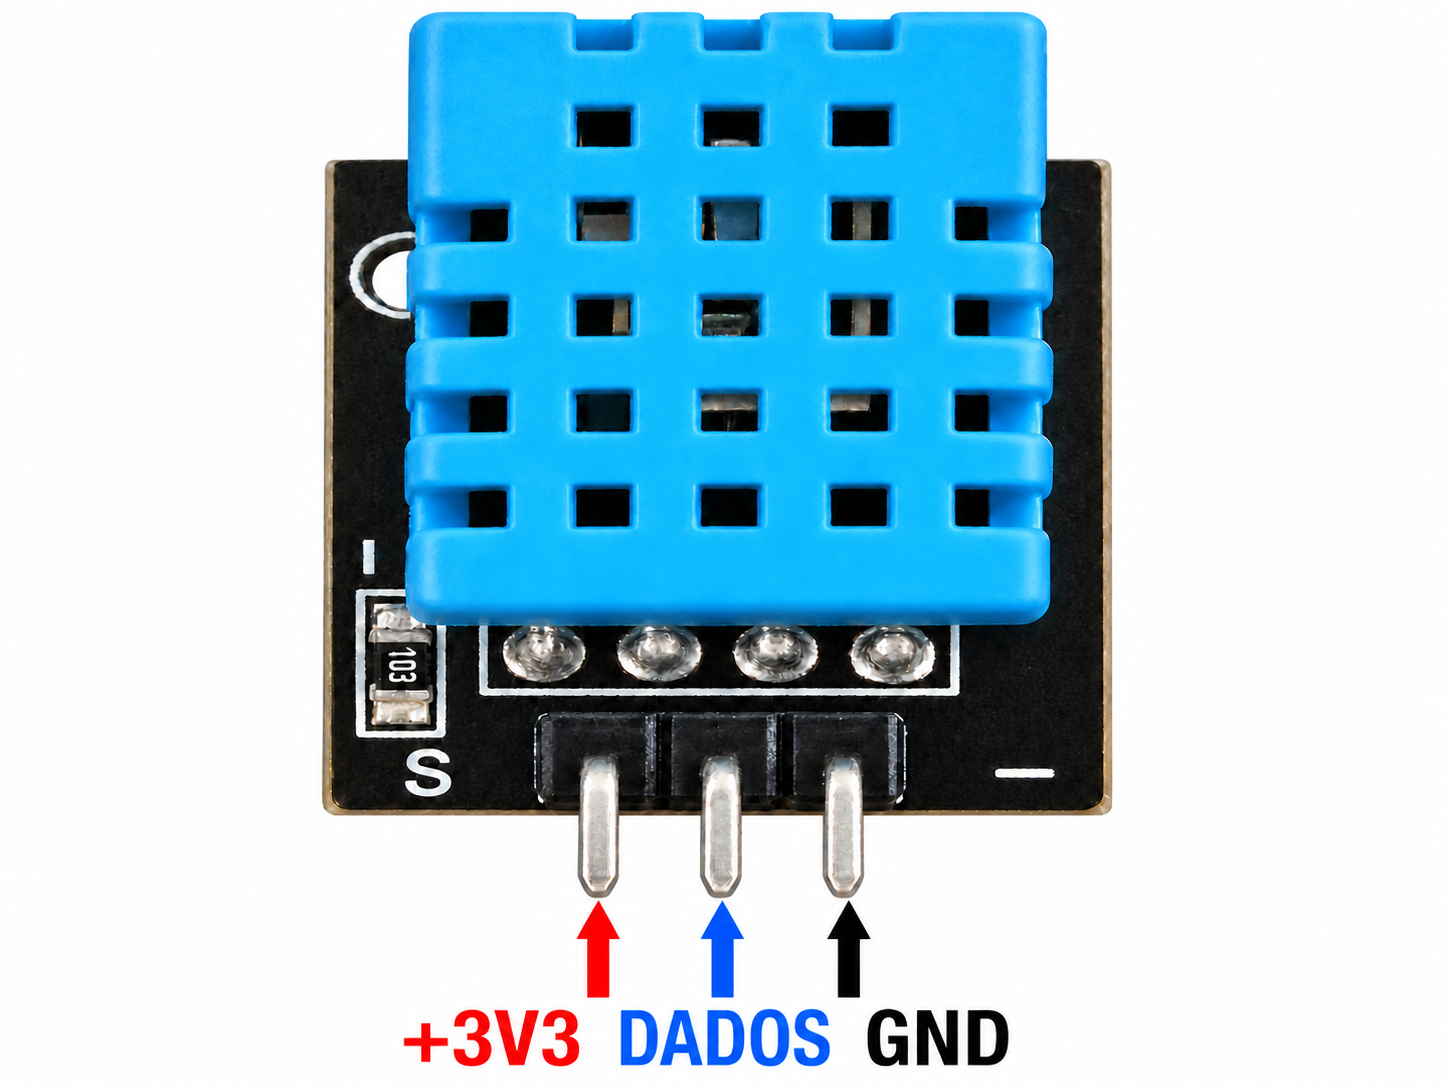
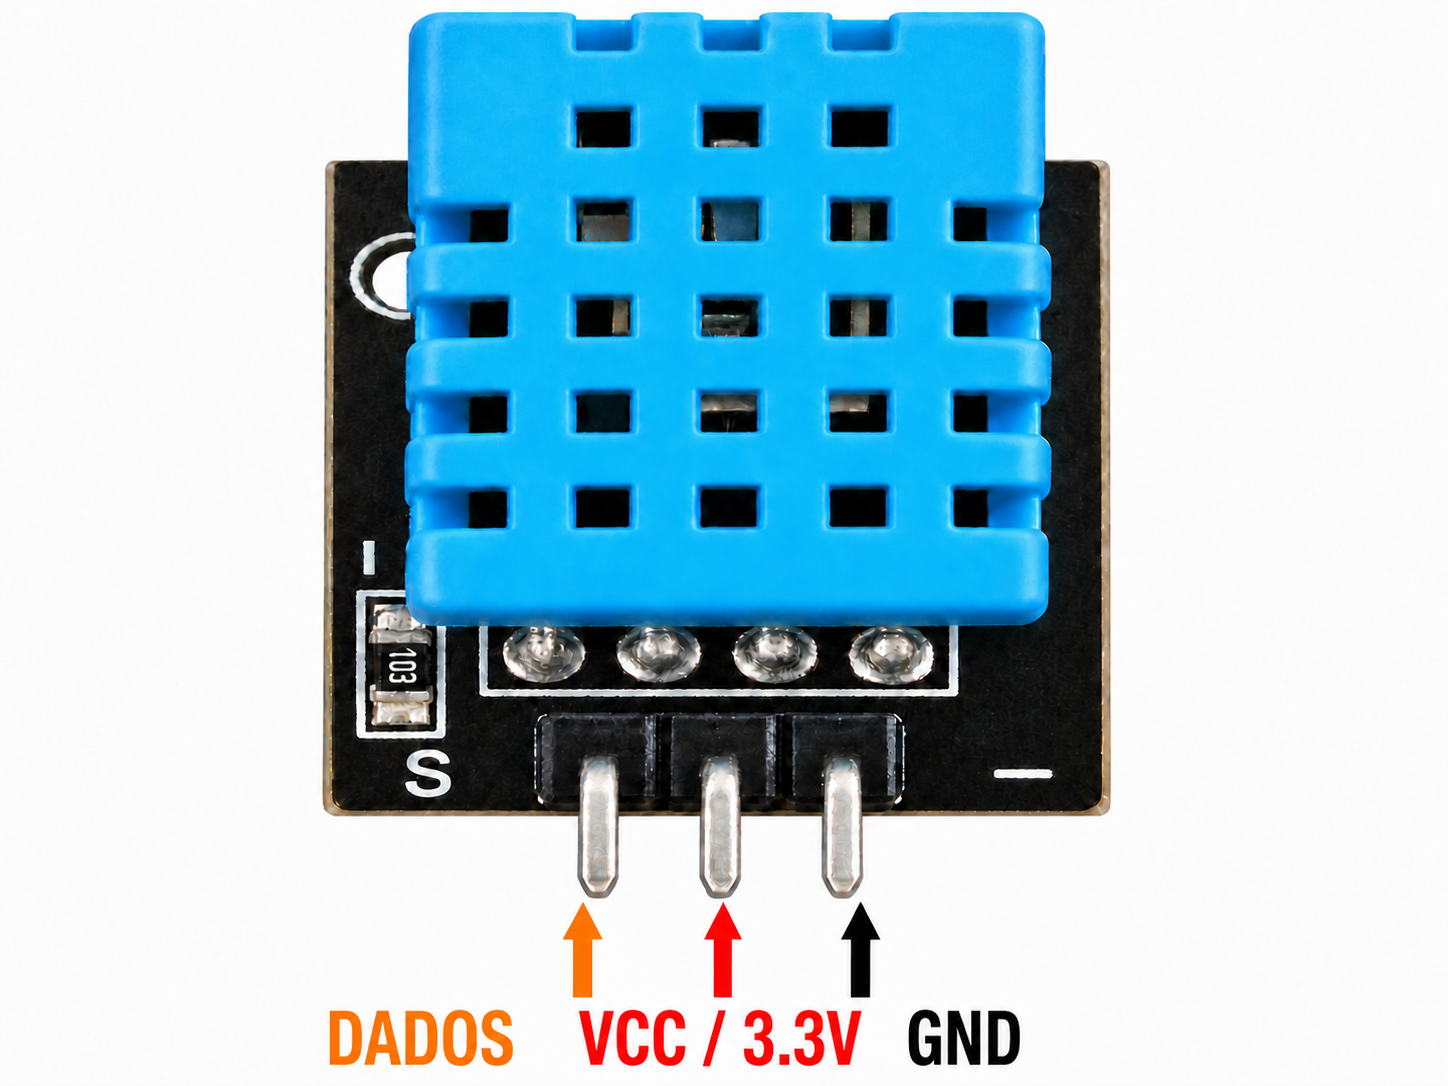
fix: correct DHT11 pinout guidance

diff --git a/src/js/core/workspace/hints.js b/src/js/core/workspace/hints.js
@@ -218,18 +218,18 @@ WorkspaceManager.bindServoCategoryHint = function() {
 WorkspaceManager.showDht11ConnectionReminder = function(block) {
   var closeId = 'closeDht11ConnectionNotification';
   var boardImage = '../assets/images/devices/conexoes-externas.png';
-  var dht11Image = '../assets/images/devices/dht11-pinout.png?ver=5';
+  var dht11Image = '../assets/images/devices/dht11-pinout.png?ver=6';
   var wireRows = Code.LANG === 'en'
     ? '<div style="margin:10px 0 6px;font-size:15px;font-weight:bold;">DHT11 wires</div>' +
       '<div style="display:grid; gap:7px; margin:0 0 10px;">' +
-      '<div style="background:#e8f5e9;color:#1b5e20;padding:8px;border-radius:5px;"><strong>Red arrow (+3V3)</strong> → left pin, next to S</div>' +
-      '<div style="background:#fff3e0;color:#4e342e;padding:8px;border-radius:5px;"><strong>Blue arrow (DATA)</strong> → center pin &nbsp;|&nbsp; V7: Connection 0 or 1 &nbsp;|&nbsp; V6: Connections 0, 1, 2 or 3</div>' +
+      '<div style="background:#fff3e0;color:#4e342e;padding:8px;border-radius:5px;"><strong>Orange arrow (DATA)</strong> → left pin, next to S &nbsp;|&nbsp; V7: Connection 0 or 1 &nbsp;|&nbsp; V6: Connections 0, 1, 2 or 3</div>' +
+      '<div style="background:#ffebee;color:#7f0000;padding:8px;border-radius:5px;"><strong>Red arrow (VCC / 3.3V)</strong> → center pin</div>' +
       '<div style="background:#efebe9;color:#3e2723;padding:8px;border-radius:5px;"><strong>Black arrow (GND)</strong> → right pin, next to -</div>' +
       '</div>'
     : '<div style="margin:10px 0 6px;font-size:15px;font-weight:bold;">Fios do DHT11</div>' +
       '<div style="display:grid; gap:7px; margin:0 0 10px;">' +
-      '<div style="background:#e8f5e9;color:#1b5e20;padding:8px;border-radius:5px;"><strong>Seta vermelha (+3V3)</strong> → pino da esquerda, ao lado do S</div>' +
-      '<div style="background:#fff3e0;color:#4e342e;padding:8px;border-radius:5px;"><strong>Seta azul (DADOS)</strong> → pino do meio &nbsp;|&nbsp; V7: Conexões 0 ou 1 &nbsp;|&nbsp; V6: Conexões 0, 1, 2 ou 3</div>' +
+      '<div style="background:#fff3e0;color:#4e342e;padding:8px;border-radius:5px;"><strong>Seta laranja (DADOS)</strong> → pino da esquerda, ao lado do S &nbsp;|&nbsp; V7: Conexões 0 ou 1 &nbsp;|&nbsp; V6: Conexões 0, 1, 2 ou 3</div>' +
+      '<div style="background:#ffebee;color:#7f0000;padding:8px;border-radius:5px;"><strong>Seta vermelha (VCC / 3.3V)</strong> → pino do meio</div>' +
       '<div style="background:#efebe9;color:#3e2723;padding:8px;border-radius:5px;"><strong>Seta preta (GND)</strong> → pino da direita, ao lado do -</div>' +
       '</div>';
   var html = Code.LANG === 'en'

diff --git a/tests/external_connections_toolbox_smoke.js b/tests/external_connections_toolbox_smoke.js
@@ -122,8 +122,8 @@ assert.match(workspaceHints, /Code\.showDht11ConnectionReminder\(\)/);
 assert.match(workspaceHints, /dht11-pinout\.png/);
 assert.ok(fs.existsSync(dht11PinoutPath), 'A imagem de pinagem do DHT11 deve existir.');
 assert.match(workspaceHints, /Fios do DHT11/);
-assert.match(workspaceHints, /Seta vermelha.*\+3V3/);
-assert.match(workspaceHints, /Seta azul.*DADOS/);
+assert.match(workspaceHints, /Seta laranja.*DADOS/);
+assert.match(workspaceHints, /Seta vermelha.*VCC \/ 3\.3V/);
 assert.match(workspaceHints, /Seta preta.*GND/);
 assert.match(workspaceHints, /garra jacaré/);
 assert.match(workspaceHints, /Na V7.*DADOS.*0 ou 1/);
